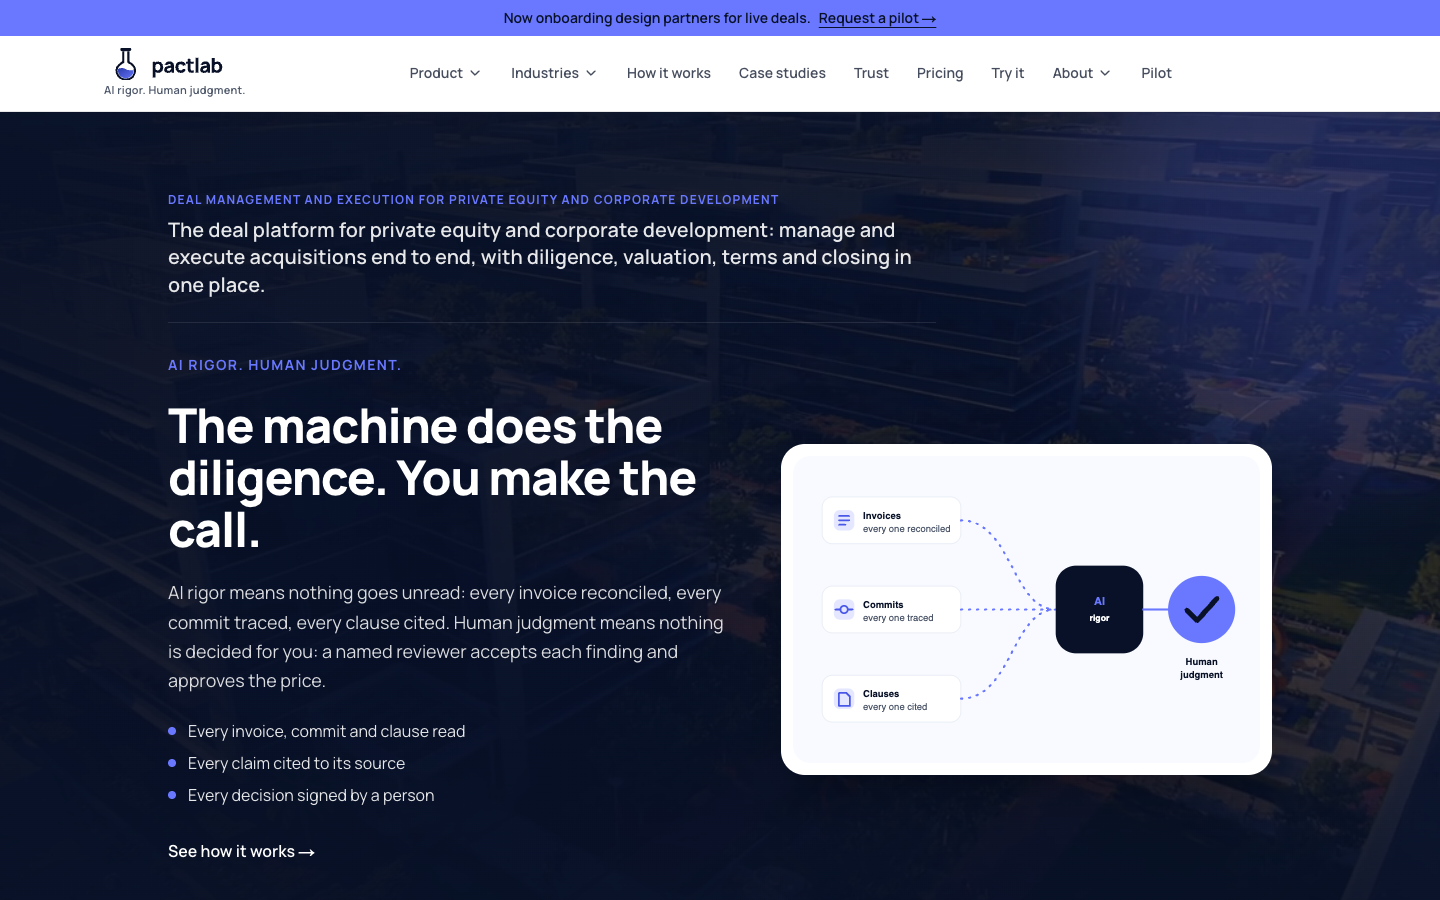
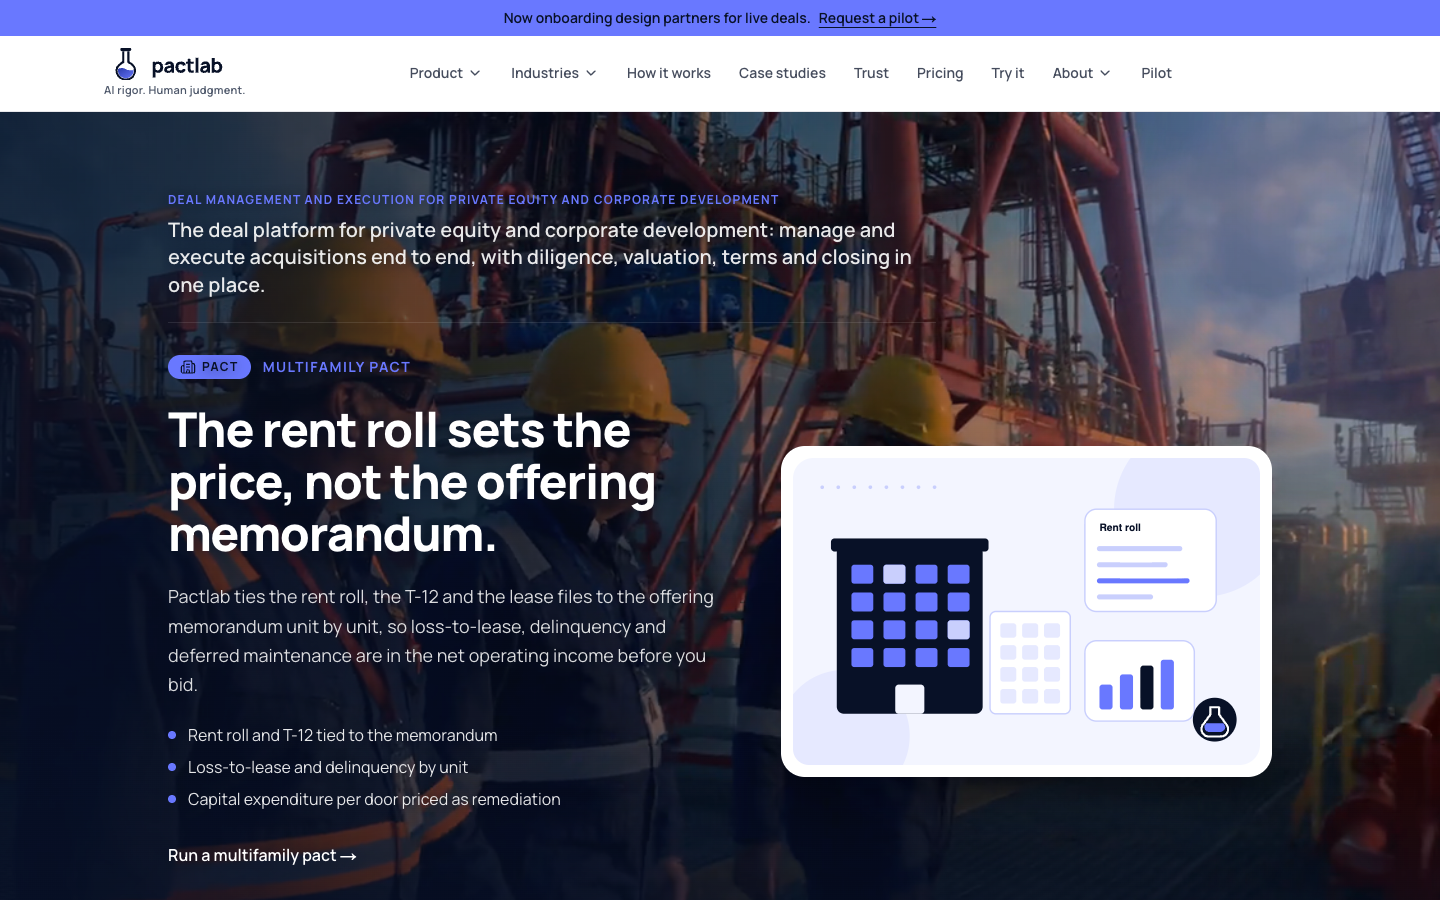
T-130: let the footage show: lighter overlay, darkest only behind the copy
Kumar (2026-11-17): the overlay hid the video. Wider screens now darken only behind the left
text column, fading to almost clear on the right; phones get an even 60% veil; a soft
bottom fade keeps the slide controls readable. A navy text shadow on the copy column (not
the card) keeps the eyebrows and body crisp over bright scenes. Screenshots refreshed,
including the brightest scene (hospital).

Claude-Session: https://claude.ai/code/session_01AUiJmTWLahyRepRMgC2722

diff --git a/apps/site/components/hero-carousel.tsx b/apps/site/components/hero-carousel.tsx
@@ -78,7 +78,7 @@ export function HeroCarousel({
       <div aria-hidden className="pointer-events-none absolute -right-40 -top-40 h-[32rem] w-[32rem] rounded-full bg-indigo/20 blur-3xl" />
       <div className="relative mx-auto max-w-6xl px-6 pb-10 pt-14 md:pt-20">
         {positioning ? (
-          <div className="mb-8 flex max-w-3xl flex-col gap-2 border-b border-white/10 pb-6">
+          <div className="mb-8 flex max-w-3xl flex-col gap-2 border-b border-white/10 pb-6 [text-shadow:0_1px_14px_rgba(8,17,39,0.75)]">
             <p className="text-xs font-bold uppercase tracking-widest text-indigo">{positioning.eyebrow}</p>
             <p className="text-lg font-semibold leading-snug text-white/90 md:text-xl">{positioning.line}</p>
           </div>
@@ -96,7 +96,8 @@ export function HeroCarousel({
                 inert={!active}
                 className={`grid items-center gap-12 md:grid-cols-[1.15fr_1fr] ${active ? (moved ? 'animate-[fade_600ms_ease-out]' : '') : 'hidden'}`}
               >
-                <div className="flex flex-col gap-6">
+                {/* T-130: a soft navy shadow keeps the copy crisp over bright moments in the footage (copy column only, not the card). */}
+                <div className="flex flex-col gap-6 [text-shadow:0_1px_14px_rgba(8,17,39,0.75)]">
                   {slide.group === 'pact' ? (
                     <p className="flex items-center gap-3 text-sm font-bold uppercase tracking-widest text-indigo">
                       <span className="inline-flex items-center gap-1.5 rounded-full bg-indigo px-3 py-1 text-xs text-navy">

diff --git a/apps/site/components/hero-video.tsx b/apps/site/components/hero-video.tsx
@@ -50,9 +50,13 @@ export function HeroVideo() {
           data-testid="hero-video"
         />
       ) : null}
-      {/* Brand navy (#081127) over the footage: darkest behind the copy on the left, so white text keeps AA contrast on the brightest scene. */}
-      <div className="absolute inset-0 bg-gradient-to-r from-navy/95 via-navy/85 to-navy/70" />
-      <div className="absolute inset-0 bg-gradient-to-t from-navy via-transparent to-navy/40" />
+      {/*
+        Brand navy (#081127) only where the copy sits, so the footage shows (Kumar, 2026-11-17: "make it more visible").
+        Phones: the copy spans the width, so an even veil. Wider screens: dark behind the left text column,
+        fading to almost clear on the right. A soft fade at the bottom keeps the slide controls readable.
+      */}
+      <div className="absolute inset-0 bg-navy/60 md:bg-transparent md:bg-gradient-to-r md:from-navy/80 md:via-navy/45 md:to-navy/5" />
+      <div className="absolute inset-x-0 bottom-0 h-1/3 bg-gradient-to-t from-navy/80 to-transparent" />
     </div>
   );
 }
